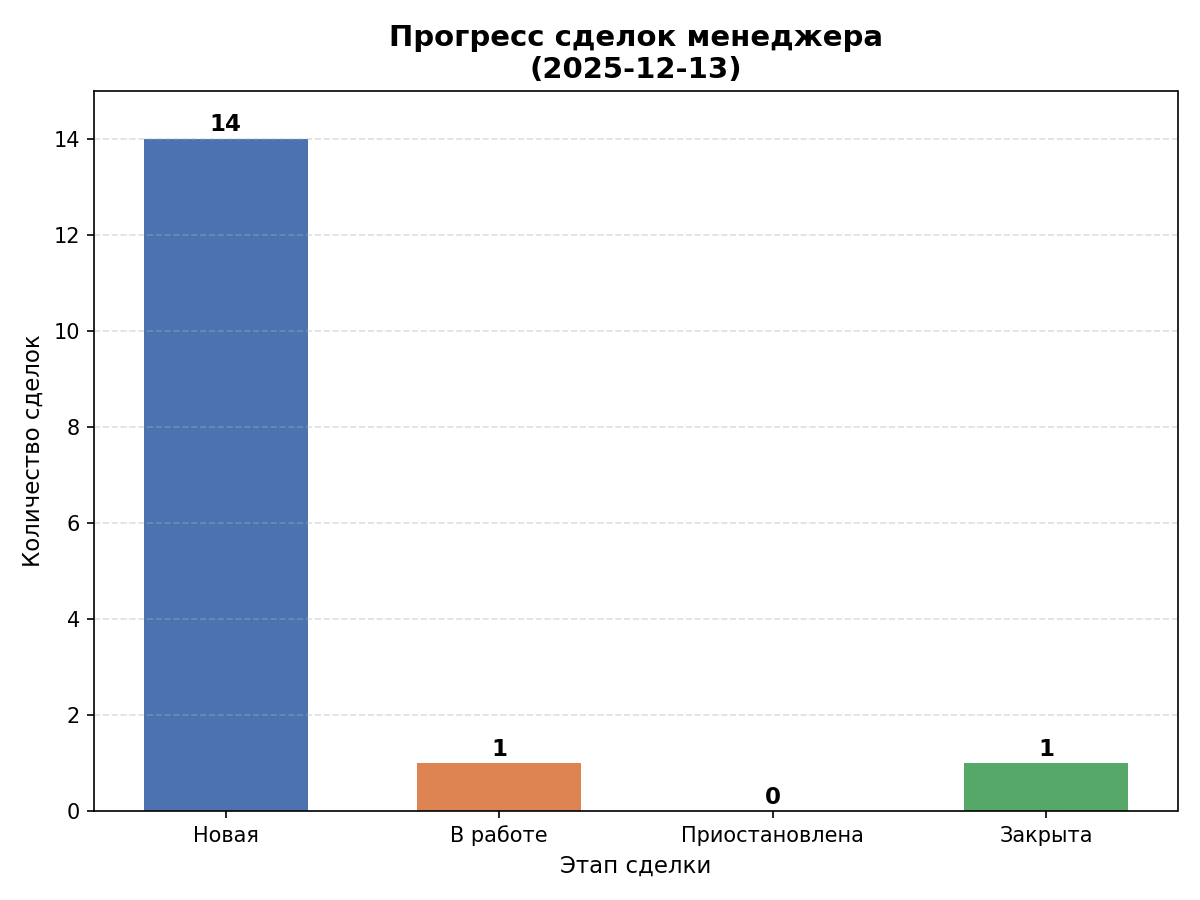
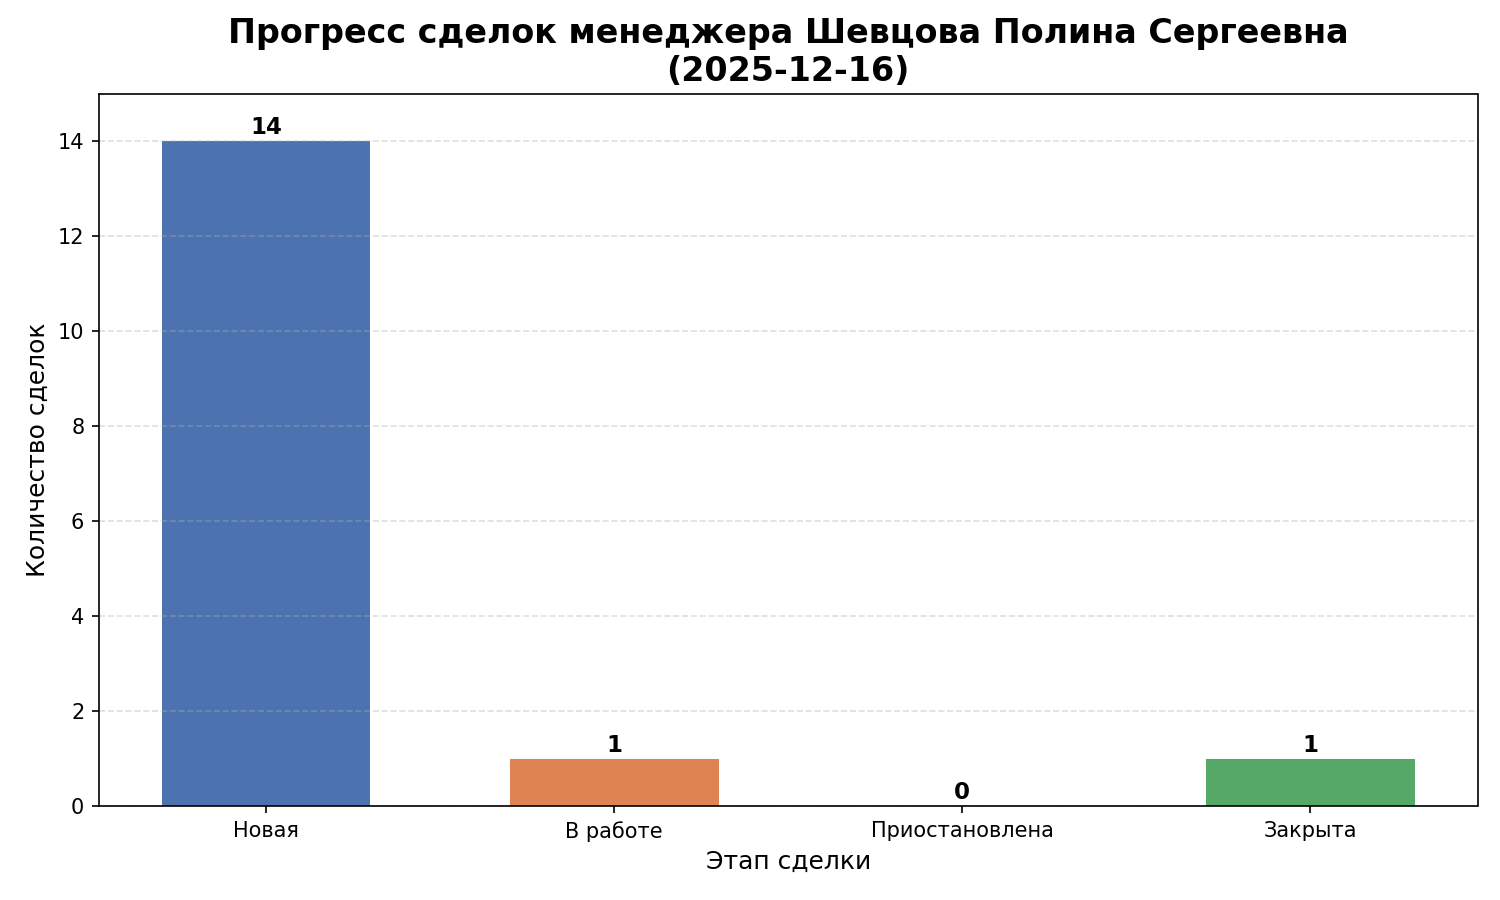
Аналитика и отчеты: Шаг 3.1 - Улучшение диаграммы по сделкам для менеджеров + Добавление ИИ

Changed region(s): [[0.0, 0.0, 0.9867, 0.9956]]

diff --git a/handlers/reports/manager_deals_report.py b/handlers/reports/manager_deals_report.py
@@ -6,12 +6,79 @@ from datetime import date
 import matplotlib.pyplot as plt
 from aiogram import types, Dispatcher
 from sqlalchemy import select
+import torch
+from handlers.reports.ai_model import tokenizer, model
 
 from database.db import async_session_maker
 from database.models import User, Deal, DealStage
 
+# ============================================================
+# 🔹 ИИ-МОДЕЛЬ (один раз при старте)
+# ============================================================
 
-# 🎯 CALLBACK: Прогресс сделок менеджера
+def generate_ai_recommendations_deals(stats: dict) -> str:
+    """
+    Генерация профессиональных рекомендаций по сделкам менеджера
+    """
+    prompt = f"""
+    Ты — бизнес-аналитик CRM-системы. Используй только реальные данные конкретного менеджера и его команды. 
+    Не придумывай компании, истории, проценты, коэффициенты, оценки, прогнозы или любые числа кроме фактических переданных. 
+    Сформулируй 3–4 деловые рекомендации, которые реально помогут менеджеру повысить эффективность работы с текущими сделками. 
+    Выдавай только связный текст в виде абзаца, без заголовков, списков, оценок и любых меток.
+
+    Пример правильного ответа:
+    Сосредоточьтесь на новых сделках, чтобы своевременно их обработать. Проверяйте сделки в работе регулярно, чтобы выявлять риски и корректировать приоритеты. Анализируйте закрытые сделки, чтобы понять причины успешного и неуспешного завершения, и используйте эти выводы для оптимизации процесса. Поддерживайте команду при решении сложных сделок и равномерно распределяйте задачи.
+
+    Данные менеджера для анализа:
+    - Новые: {stats['new']}
+    - В работе: {stats['in_progress']}
+    - Приостановленные: {stats['on_hold']}
+    - Закрытые: {stats['completed']}
+    - Всего: {stats['total']}
+    """
+
+    try:
+        inputs = tokenizer(
+            prompt,
+            return_tensors="pt",
+            truncation=True,
+            max_length=512
+        )
+
+        with torch.no_grad():
+            output = model.generate(
+                **inputs,
+                max_new_tokens=150,
+                do_sample=True,
+                temperature=0.3,
+                top_p=0.85,
+                repetition_penalty=1.1,
+                pad_token_id=tokenizer.eos_token_id
+            )
+
+        text = tokenizer.decode(output[0], skip_special_tokens=True)
+        text = text.replace(prompt, "").strip()
+
+        # Разделяем на предложения и берём первые 3-4
+        sentences = [s.strip() for s in text.split(".") if len(s.strip()) > 20]
+        text = ". ".join(sentences[:4])
+        if text:
+            text += "."
+
+        if not text:
+            return "Рекомендуется активнее отслеживать новые сделки, ускорять выполнение задач и приостанавливать ненужные операции."
+
+        return text
+
+    except Exception as e:
+        print(f"⚠ Ошибка ИИ-аналитики: {e}")
+        return "Рекомендуется контролировать новые и приостановленные сделки, оптимизировать работу менеджера и завершать приоритетные сделки."
+
+
+# ============================================================
+# 🔹 CALLBACK: Прогресс сделок менеджера
+# ============================================================
+
 async def report_manager_deals_cb_handler(query: types.CallbackQuery):
     print(f"📌 Callback report_manager_deals_cb_handler вызван для Telegram ID: {query.from_user.id}")
     await query.answer("⏳ Формирую отчёт по сделкам...")
@@ -25,10 +92,7 @@ async def report_manager_deals_cb_handler(query: types.CallbackQuery):
 
         if not manager:
             await query.message.answer("❌ Пользователь не найден.")
-            print("❌ Менеджер не найден")
             return
-
-        print(f"✅ Менеджер: {manager.full_name}")
 
         # --- Получаем сделки менеджера ---
         result_deals = await session.execute(
@@ -36,14 +100,12 @@ async def report_manager_deals_cb_handler(query: types.CallbackQuery):
         )
         deals = result_deals.scalars().all()
 
-        print(f"ℹ Найдено сделок: {len(deals)}")
-
         if not deals:
             await query.message.answer("ℹ У вас пока нет сделок для отчёта.")
             return
 
         # --- Подсчёт по этапам ---
-        stats = {
+        stats_raw = {
             DealStage.new.value: 0,
             DealStage.in_progress.value: 0,
             DealStage.on_hold.value: 0,
@@ -51,14 +113,20 @@ async def report_manager_deals_cb_handler(query: types.CallbackQuery):
         }
 
         for deal in deals:
-            stats[deal.stage.value] += 1
+            stats_raw[deal.stage.value] += 1
 
-        print(f"ℹ Статистика сделок: {stats}")
+        # --- Преобразуем в удобный формат для ИИ ---
+        ai_stats = {
+            "new": stats_raw.get("Новая", 0),
+            "in_progress": stats_raw.get("В работе", 0),
+            "on_hold": stats_raw.get("Приостановлена", 0),
+            "completed": stats_raw.get("Закрыта", 0),
+            "total": sum(stats_raw.values())
+        }
 
         # --- Построение диаграммы ---
-        stages = list(stats.keys())
-        counts = list(stats.values())
-
+        stages = list(stats_raw.keys())
+        counts = list(stats_raw.values())
         colors = {
             "Новая": "#4C72B0",
             "В работе": "#DD8452",
@@ -66,20 +134,13 @@ async def report_manager_deals_cb_handler(query: types.CallbackQuery):
             "Закрыта": "#55A868",
         }
 
-        fig, ax = plt.subplots(figsize=(8, 6))
+        fig, ax = plt.subplots(figsize=(10, 6))
+        bars = ax.bar(stages, counts, color=[colors[s] for s in stages], width=0.6)
 
-        bars = ax.bar(
-            stages,
-            counts,
-            color=[colors[s] for s in stages],
-            width=0.6
-        )
-
-        # Подписи над столбцами
         for bar in bars:
             height = bar.get_height()
             ax.text(
-                bar.get_x() + bar.get_width() / 2,
+                bar.get_x() + bar.get_width()/2,
                 height + 0.05,
                 str(int(height)),
                 ha="center",
@@ -88,38 +149,45 @@ async def report_manager_deals_cb_handler(query: types.CallbackQuery):
                 fontweight="bold"
             )
 
-        ax.set_title(
-            f"Прогресс сделок менеджера\n({date.today()})",
-            fontsize=14,
-            fontweight="bold"
-        )
-        ax.set_ylabel("Количество сделок", fontsize=11)
-        ax.set_xlabel("Этап сделки", fontsize=11)
-
-        ax.set_ylim(0, max(counts) + 1)
+        ax.set_title(f"Прогресс сделок менеджера {manager.full_name}\n({date.today()})", fontsize=16, fontweight="bold")
+        ax.set_ylabel("Количество сделок", fontsize=12)
+        ax.set_xlabel("Этап сделки", fontsize=12)
+        ax.set_ylim(0, max(counts)+1)
         ax.grid(axis="y", linestyle="--", alpha=0.4)
 
         plt.tight_layout()
 
-        # --- Сохранение ---
         os.makedirs("reports/images", exist_ok=True)
         filename = "reports/images/manager_deals_progress.png"
-
         plt.savefig(filename, dpi=150)
         plt.close()
 
-        print(f"✅ Диаграмма сохранена: {filename}")
+        # --- Генерация ИИ-рекомендаций ---
+        ai_text = generate_ai_recommendations_deals(ai_stats)
 
-        # --- Отправка ---
+        caption = (
+            f"📊 Прогресс сделок менеджера {manager.full_name}\n\n"
+            f"Статистика сделок:\n"
+            f"• Новые: {ai_stats['new']}\n"
+            f"• В работе: {ai_stats['in_progress']}\n"
+            f"• Приостановленные: {ai_stats['on_hold']}\n"
+            f"• Закрытые: {ai_stats['completed']}\n"
+            f"• Всего: {ai_stats['total']}\n\n"
+            f"🤖 Рекомендации ИИ:\n{ai_text}"
+        )
+
         await query.message.answer_photo(
             types.InputFile(filename),
-            caption="📈 Прогресс ваших сделок"
+            caption=caption
         )
 
         print(f"🎯 Отчёт по сделкам отправлен менеджеру: {manager.full_name}")
 
 
-# 🔌 Регистрация
+# ============================================================
+# 🔌 Регистрация хендлера
+# ============================================================
+
 def register_manager_deals_report(dp: Dispatcher):
     dp.register_callback_query_handler(
         report_manager_deals_cb_handler,

diff --git a/handlers/reports/manager_reports.py b/handlers/reports/manager_reports.py
@@ -7,34 +7,12 @@ import torch
 import matplotlib.pyplot as plt
 from aiogram import types, Dispatcher
 from sqlalchemy import select
-
-from transformers import AutoTokenizer, AutoModelForCausalLM
+from handlers.reports.ai_model import tokenizer, model
 
 from database.db import async_session_maker
 from database.models import User, Task, TaskStatus
 
 
-# ============================================================
-# 🔹 ЗАГРУЗКА ЛОКАЛЬНОЙ ИИ-МОДЕЛИ (ОДИН РАЗ ПРИ СТАРТЕ БОТА)
-# ============================================================
-
-MODEL_PATH = "models/tinyllama"
-
-print("⚙ Загружаем локальную ИИ-модель (TinyLlama)...")
-
-tokenizer = AutoTokenizer.from_pretrained(
-    MODEL_PATH,
-    use_fast=False
-)
-
-model = AutoModelForCausalLM.from_pretrained(
-    MODEL_PATH,
-    torch_dtype=torch.float32
-)
-
-model.eval()
-
-print("✅ Локальная модель TinyLlama загружена")
 
 
 # ============================================================

diff --git a/handlers/reports/ai_model.py b/handlers/reports/ai_model.py
@@ -1,0 +1,13 @@
+# ai_model.py
+import torch
+from transformers import AutoTokenizer, AutoModelForCausalLM
+
+MODEL_PATH = "models/tinyllama"
+
+print("⚙ Загружаем локальную ИИ-модель...")
+
+tokenizer = AutoTokenizer.from_pretrained(MODEL_PATH, use_fast=False)
+model = AutoModelForCausalLM.from_pretrained(MODEL_PATH, torch_dtype=torch.float32)
+model.eval()
+
+print("✅ Локальная модель TinyLlama загружена")
